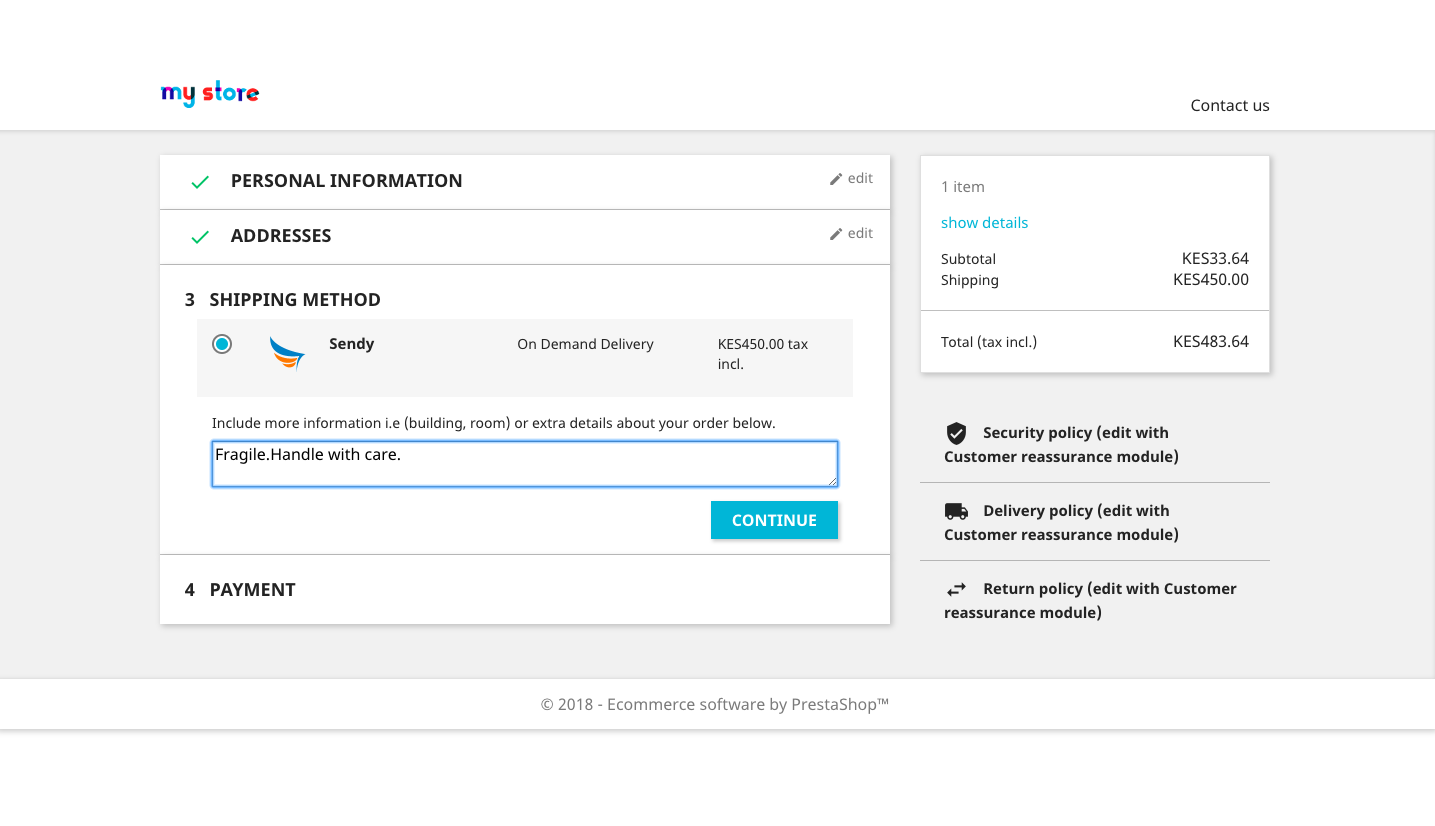
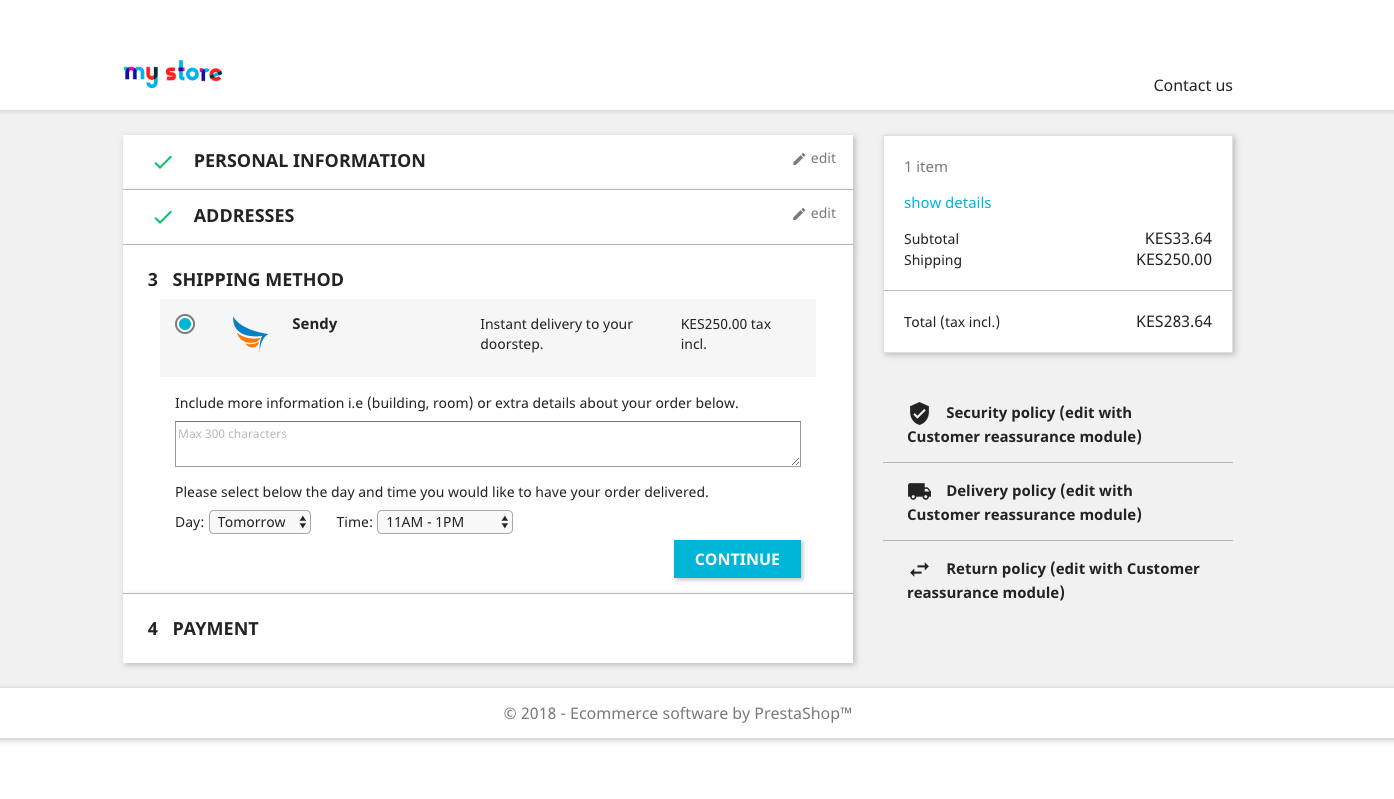
updating api key and username

diff --git a/README.md b/README.md
@@ -47,6 +47,6 @@ This module integrates Sendy delivery service to the customers shopping flow
  
   ![alt text](https://raw.githubusercontent.com/sendyit/prestashop/dev/views/img/notes.png)
   
- - Choose Sendy and proceed to give extra information about your order in the notes section.
+ - Choose Sendy and proceed to give extra information about your order in the notes section. You can also choose the time to get youy order delivered.
 
 ##### Lets Deliver!
